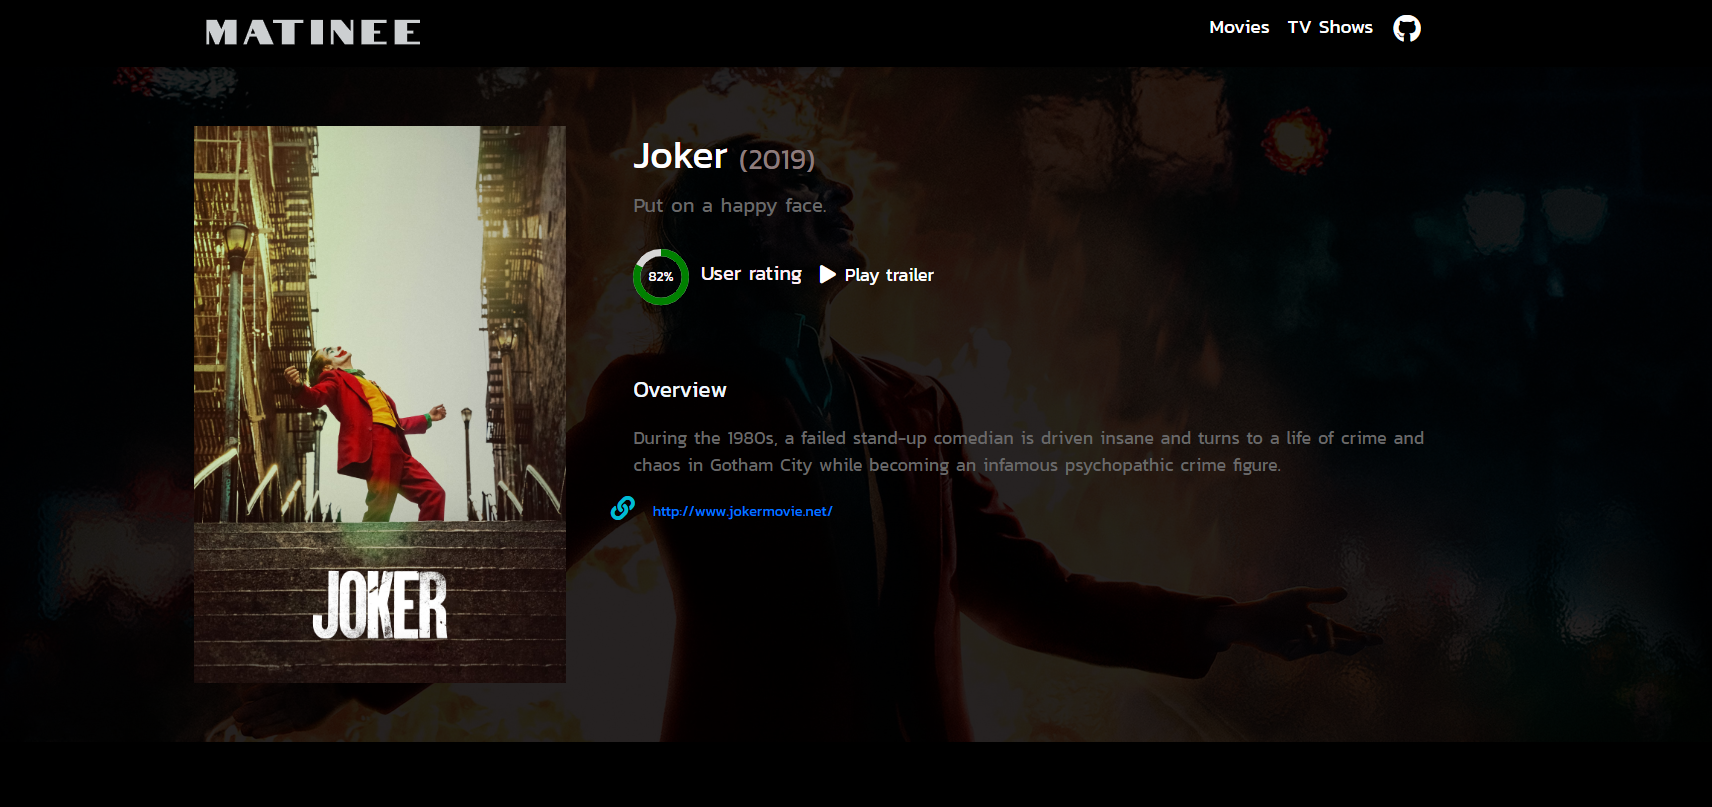
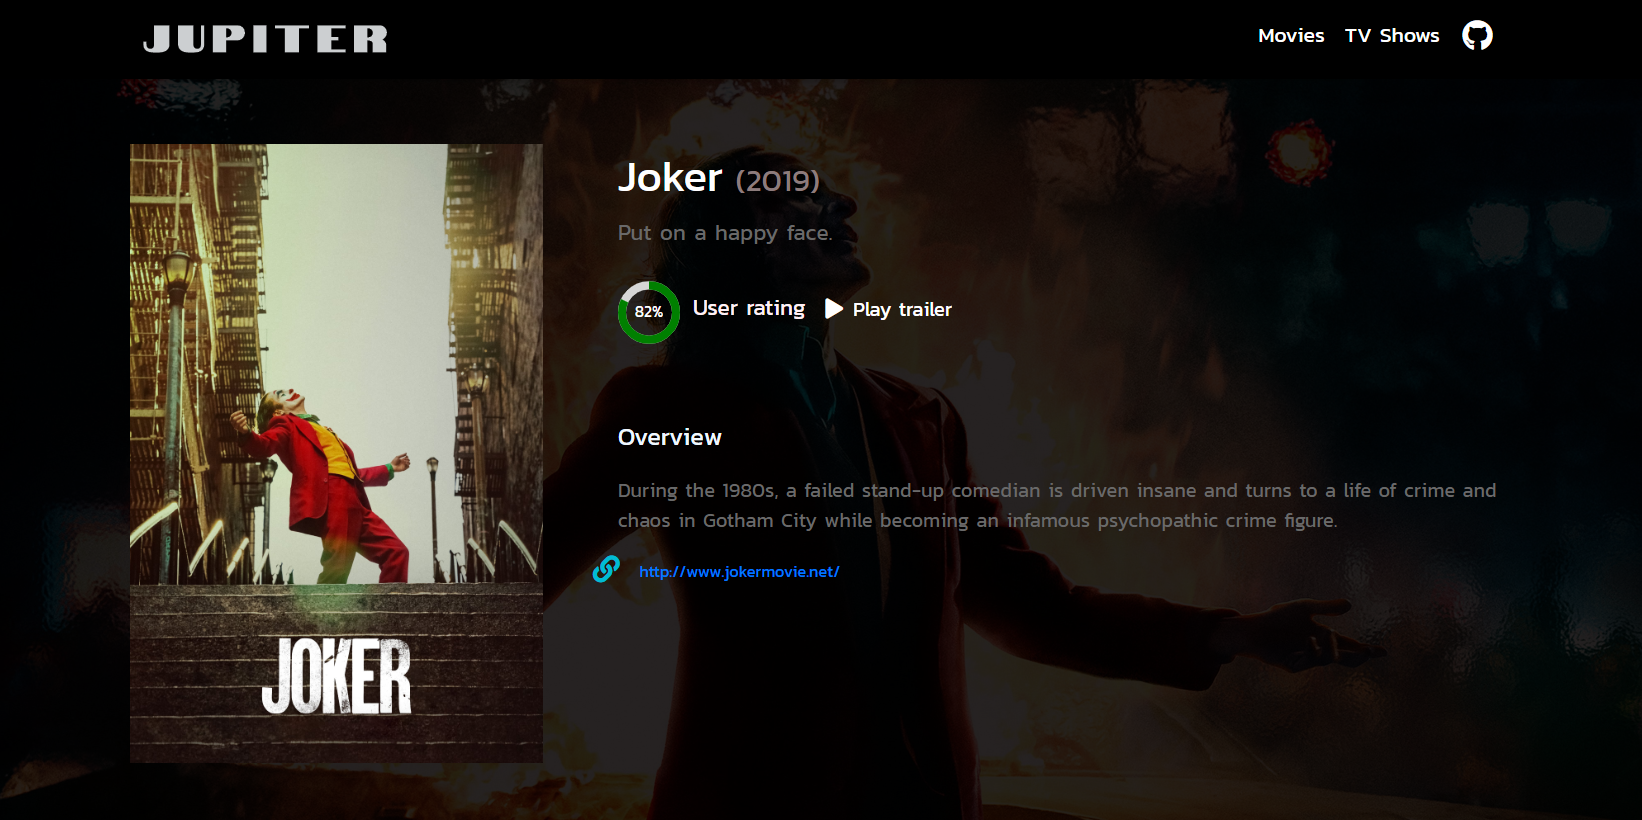
bug fixes

diff --git a/src/layouts/Header.js b/src/layouts/Header.js
@@ -18,7 +18,7 @@ const  Header = () => {
             <MDBContainer>
                 <MDBNavbarBrand>
                     <strong className="brand">
-                        <Link to="/" className="brand_name">Matinee</Link>
+                        <Link to="/" className="brand_name">Jupiter</Link>
                     </strong>
                 </MDBNavbarBrand>
                 <MDBNavbarToggler onClick={toggleCollapse} />
@@ -34,7 +34,7 @@ const  Header = () => {
                             <MDBNavLink to="/discover/tv-shows" className="links">TV Shows</MDBNavLink>
                         </MDBNavItem>
                         <MDBNavItem>
-                            <a href="https://github.com/Ranganath-MD/matinee-movie" target="_blank" rel="noopener noreferrer">
+                            <a href="https://github.com/Ranganath-MD/Jupiter" target="_blank" rel="noopener noreferrer">
                                 <MDBIcon fab size="lg" icon="github" className="github" />
                             </a>
                         </MDBNavItem>

diff --git a/src/App.js b/src/App.js
@@ -13,6 +13,7 @@ import FilmProvider from "./context/FilmProvider"
 import TVShowProvider from "./context/TVShowProvider"
 import SearchResults from "./components/SearchResults"
 import NotFound from "./layouts/404"
+import Seo from './layouts/Seo';
 
 function App() {
   console.log("%cMatinee Movie", "color: maroon; font-weight: 900; font-size: 50px; font-family: monospace");
@@ -20,6 +21,10 @@ function App() {
     <BrowserRouter>
       <FilmProvider>
         <TVShowProvider>
+          <Seo
+            title="Jupiter"
+            description="Find your favourite movies and give thumbs up"
+          />
           <Header />
           <div style={{ minHeight: "90vh" }}>
             <Switch>

diff --git a/src/index.js b/src/index.js
@@ -6,6 +6,7 @@ import * as serviceWorker from './serviceWorker';
 import '@fortawesome/fontawesome-free/css/all.min.css';
 import "bootstrap-css-only/css/bootstrap.min.css";
 import "mdbreact/dist/css/mdb.css";
+
 ReactDOM.render(
   <React.StrictMode>
     <App />
